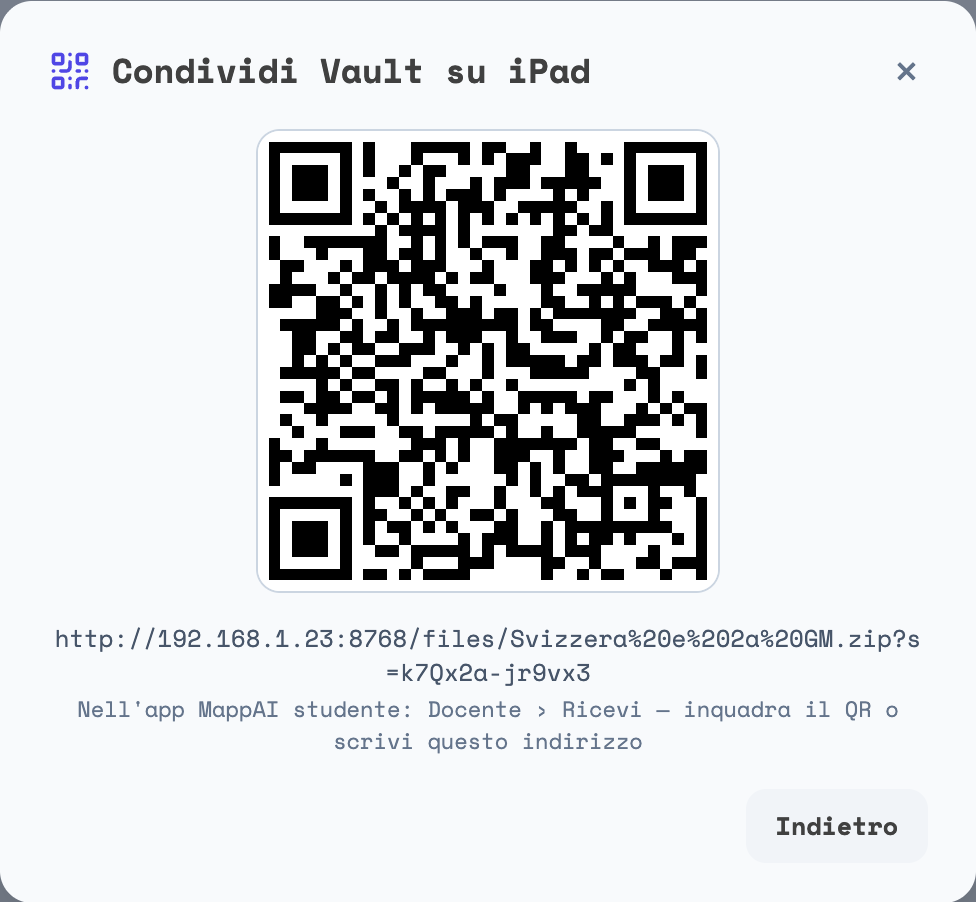
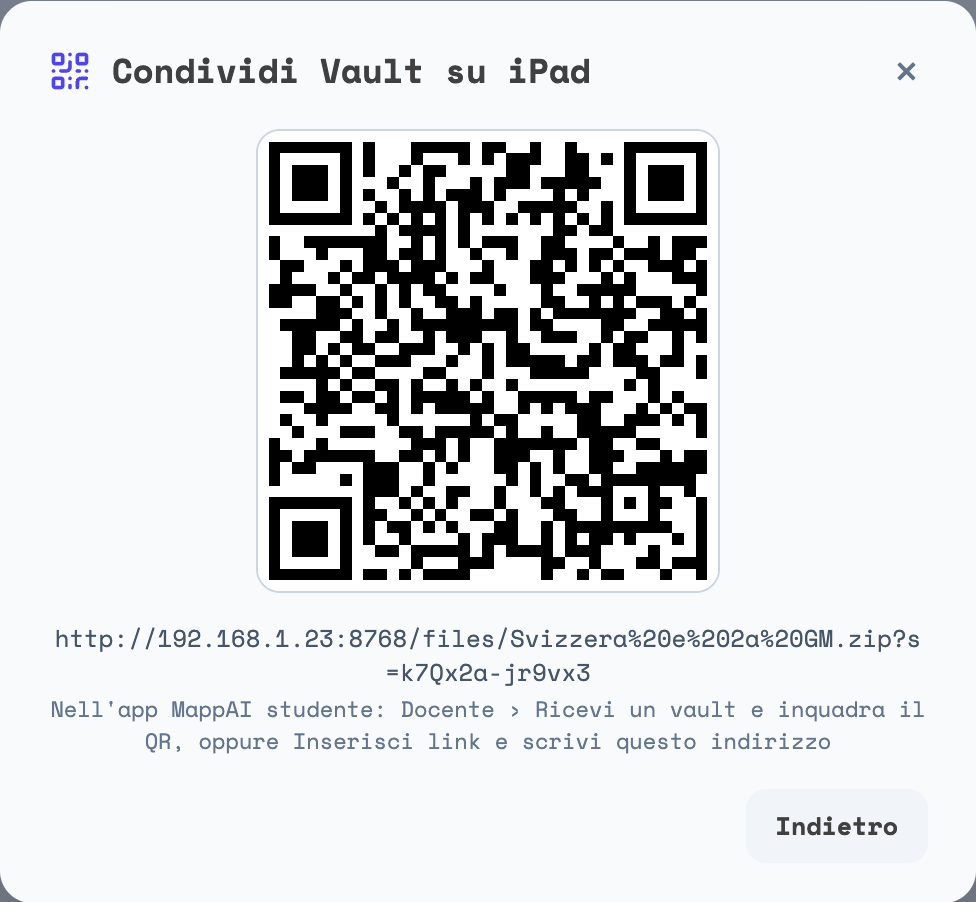
0119 (reader): slide 3 col testo nuovo del docente, slide 5 «scrivi il link»
Copia di en_translations.js da re (allargamento 1 dello 0119: `sd_qr_studente`).
Schermata della slide 3 rifatta col testo nuovo sotto il QR. Suite 61/61.

Changed region(s): [[0.0615, 0.7761, 0.9529, 0.8381]]

diff --git a/public/js/studente/scambio-core.js b/public/js/studente/scambio-core.js
@@ -247,7 +247,7 @@
         { titolo: ['sc_g2_t', 'Fai la prova'], testo: ['sc_g2', 'Scegli una prova nella console del progetto e premi «Consegna» alla fine. La ritrovi in «Le tue prove».'], img: 'img/scambio/passo-2.png', alt: ['sc_g2_alt', 'La tabella «Le tue prove» con una prova'] },
         { titolo: ['sc_g3_t', 'Il docente apre lo scambio'], testo: ['sc_g3', 'Sul suo computer apre la mappa in INSEGNA e mostra il QR «Vault su iPad». Tu e lui siete sulla stessa rete Wi-Fi.'], img: 'img/scambio/passo-3.png', alt: ['sc_g3_alt', 'Lo schermo del docente col QR «Vault su iPad»'] },
         { titolo: ['sc_g4_t', 'Scegli la prova'], testo: ['sc_g4', 'In «Docente», sotto «Consegna una prova», tocca la prova; o tocca ✈ nella sua riga in «Le tue prove». Controlla classe e numero, poi «Consegna».'], img: 'img/scambio/passo-4.png', alt: ['sc_g4_alt', 'Il modale «Consegna al docente»'] },
-        { titolo: ['sc_g5_t', 'Inquadra il QR'], testo: ['sc_g5', 'Se si apre la fotocamera, inquadra il QR del docente. Se non va, scrivi il codice che sta sotto il QR: per 12 ore l\'iPad se lo ricorda.'], img: '', alt: ['sc_g5_alt', 'La fotocamera inquadra il QR del docente'] },
+        { titolo: ['sc_g5_t', 'Inquadra il QR'], testo: ['sc_g5', 'Se si apre la fotocamera, inquadra il QR del docente. Se non va, scrivi il link che sta sotto il QR: per 12 ore l\'iPad se lo ricorda.'], img: '', alt: ['sc_g5_alt', 'La fotocamera inquadra il QR del docente'] },
         { titolo: ['sc_g6_t', 'Fatto'], testo: ['sc_g6', 'Compare «Consegnato al docente» col nome del file: il docente lo trova in INSEGNA, fra le «Consegne». Se consegni di nuovo, la copia nuova non cancella la vecchia.'], img: 'img/scambio/passo-6.png', alt: ['sc_g6_alt', 'Il messaggio verde «Consegnato al docente»'] }
     ];
     /* o = { t, passo: 1..6 } → lo schema della slide; ‹ e › non chiudono, «Ho capito» sì */

diff --git a/public/index.html b/public/index.html
@@ -1433,7 +1433,7 @@
 
     <!-- ══ MAPPAI STUDENTE — gli script, nell'ordine di MappAI (l'ordine di caricamento è una dipendenza) ══ -->
     <script src="traduzioni/it_translations.js?v=sync-20261013"></script>
-    <script src="traduzioni/en_translations.js?v=sync-20261020"></script>
+    <script src="traduzioni/en_translations.js?v=0119-1"></script>
     <script src="traduzioni/i18n-helper.js"></script>
     <!-- la controfigura di electronAPI dello studente: PRIMA di ogni modulo (app.js la legge al caricamento) -->
     <script src="js/studente/adapter.js?v=sync-20260925"></script>
@@ -1557,7 +1557,7 @@
     <script src="js/studente/studia-core.js?v=p0117"></script>
     <script src="js/studente/console.js?v=p0117"></script>
     <script src="js/studente/cabina.js?v=st36"></script>
-    <script src="js/studente/scambio-core.js?v=0119-6"></script>
+    <script src="js/studente/scambio-core.js?v=0119-7"></script>
     <script src="js/studente/scambio.js?v=0119-2"></script>
     <script src="js/studente/demo.js?v=demo-albero"></script>
     <script src="js/studente/pdf-vista.js?v=foto1"></script>

diff --git a/public/traduzioni/en_translations.js b/public/traduzioni/en_translations.js
@@ -2452,7 +2452,7 @@ const en_translations = {
     cls_cred_ko: "Credential sheet not saved: ",
     cls_cred_stud_saved: "Credential card saved in Allievi/",
     // mappai-live-teacher.js
-    sd_qr_studente: "In the MappAI student app: Teacher › Receive — scan the QR or type this address",
+    sd_qr_studente: "In the MappAI student app: Teacher › Receive a vault and scan the QR, or Insert link and type this address",
     // mappai-material-pipeline.js
     mp_cards_over: "{n} cards exceed the character limit: check them in ELABORA → Documents",
     mp_multi_saltati: "{n} variants not generated: the others are ready",
